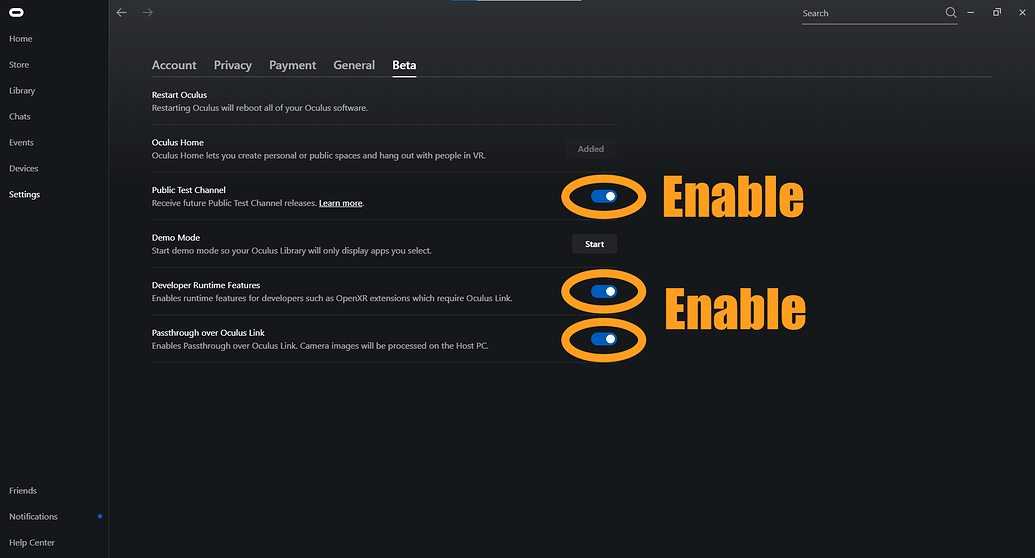
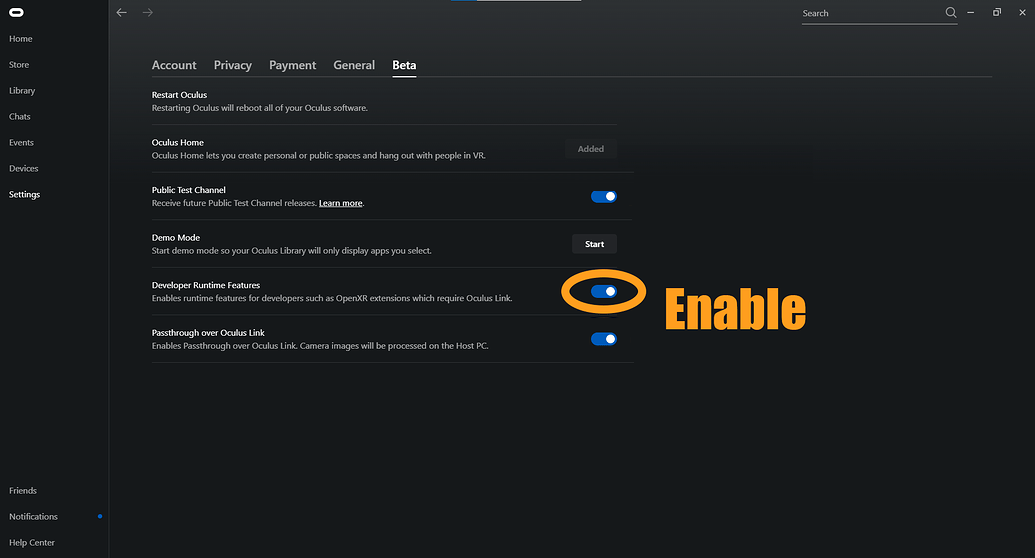
Update Oculus hand tracking doc.

Changed region(s): [[0.5256, 0.3047, 0.7729, 0.3961], [0.5256, 0.5484, 0.6493, 0.6703]]

diff --git a/hand-tracking.md b/hand-tracking.md
@@ -59,7 +59,7 @@ interaction_profile=/interaction_profiles/valve/index_controller
 
 ## Using with Oculus Quest or Quest 2
 
-1. Create and log in with a [developer account](https://developer.oculus.com/sign-up/).
+1. IMPORTANT: Create and log in with a [developer account](https://developer.oculus.com/sign-up/). You must be a registered developer for the Oculus runtime to expose the hand tracking features.
 
 2. Ensure that your Oculus software is up-to-date (v37 or later).
 
@@ -89,7 +89,7 @@ interaction_profile=/interaction_profiles/valve/index_controller
 
 4. On your PC, open the _Oculus App_, and navigate to _Settings_ and the _Beta_ menu.
 
-5. Enable _Public Test Channel_, _Developer Runtime Features_ and _Passthrough over Oculus Link_.
+5. Enable _Developer Runtime Features_.
 
 ![Enabling hand tracking](site/oculus-dev-3.jpeg)<br>
 
